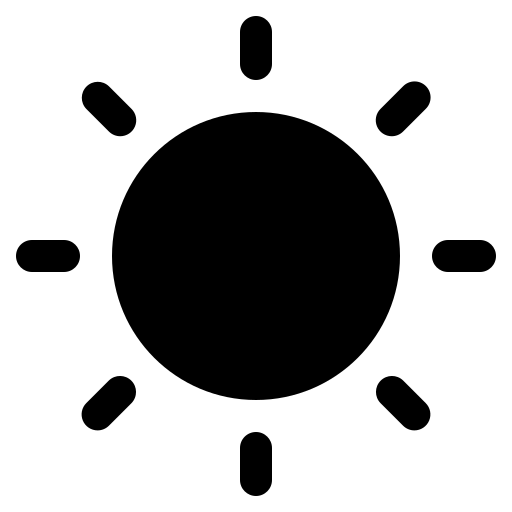
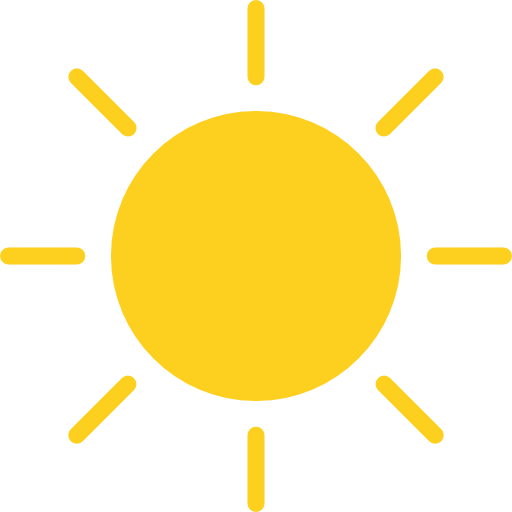
다크모드 사진, 크기 수정

diff --git a/frontend/src/components/DarkMode.css b/frontend/src/components/DarkMode.css
@@ -10,9 +10,32 @@
     border:none;
   }
   
-  .dark-mode-toggle img {
-    width: 5px;    /* 이미지 크기 조정 */
-    height: 5px;
-    object-fit: contain; /* 비율 유지하면서 크기 맞추기 */
-    transition: transform 0.2s ease-in-out; /* 클릭 시 애니메이션 효과 */
+/* ✅ 버튼 스타일 */
+.dark-mode-toggle {
+    position: fixed;   /* 화면 상단 고정 */
+    top: 20px;        /* 상단 여백 */
+    left: 20px;       /* 좌측 여백 */
+    background: none; /* 배경 없애기 */
+    border: none;     /* 테두리 없애기 */
+    cursor: pointer;  /* 클릭 가능하게 */
+    padding: 0;       /* 내부 여백 제거 */
+    z-index: 1000;    /* 다른 요소 위로 배치 */
+    width: 50px;      /* 버튼 크기 조정 */
+    height: 50px;
   }
+  
+  /* ✅ 이미지 크기 조정 */
+  .dark-mode-toggle img {
+    width: 100%;   /* 부모 요소(버튼)에 맞춤 */
+    height: 100%;
+    max-width: 40px;  /* 최대 크기 설정 */
+    max-height: 40px;
+    object-fit: contain;
+    transition: transform 0.2s ease-in-out;
+  }
+  
+  /* ✅ 클릭 시 애니메이션 효과 */
+  .dark-mode-toggle img:active {
+    transform: scale(0.9); /* 클릭하면 살짝 줄어들었다가 원래대로 */
+  }
+  

diff --git a/frontend/src/components/DarkMode.js b/frontend/src/components/DarkMode.js
@@ -2,13 +2,12 @@ import React from "react";
 import "./DarkMode.css";
 
 const DarkMode = ({ darkMode, setDarkMode }) => {
-    const imageSrc = darkMode
+  const imageSrc = darkMode
     ? `${process.env.PUBLIC_URL}/images/dark.png`
     : `${process.env.PUBLIC_URL}/images/light.png`;
 
-
   return (
-    <button onClick={() => setDarkMode(!darkMode)}>
+    <button className="dark-mode-toggle" onClick={() => setDarkMode(!darkMode)}>
       <img src={imageSrc} alt={darkMode ? "다크 모드" : "라이트 모드"} />
     </button>
   );

diff --git a/frontend/src/pages/Home.css b/frontend/src/pages/Home.css
@@ -21,7 +21,6 @@
   width: 60vw;
   height: 60vw;
   background-size: cover;
- 
   background-position: center;
 }
 
